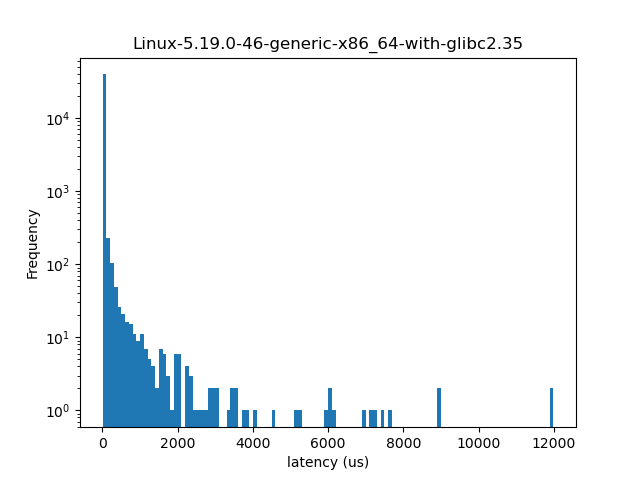
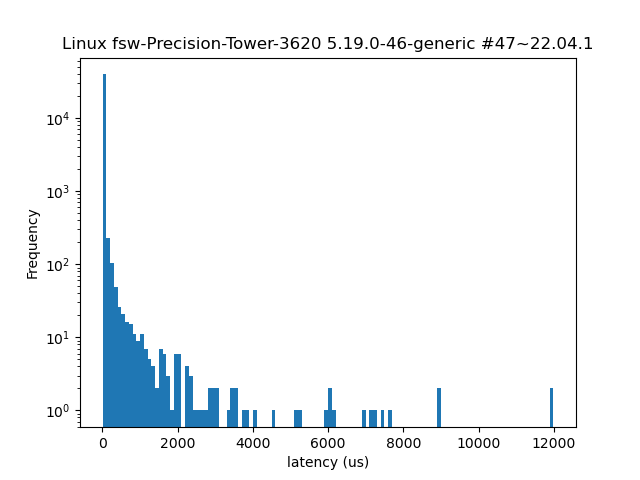
fix python script

Changed region(s): [[0.0938, 0.0625, 0.9062, 0.125]]

diff --git a/rpi-rt/utils/latency/analyze.py b/rpi-rt/utils/latency/analyze.py
@@ -2,7 +2,7 @@ import pandas as pd
 import os
 import re
 import matplotlib.pyplot as plt
-import platform
+import subprocess
 
 record = []
 
@@ -17,6 +17,6 @@ with open(os.path.join(os.path.dirname(__file__), "latency_record.txt")) as read
             pass
 s = pd.Series(record)
 df = pd.DataFrame({"latency": s})
-df["latency"].plot(kind="hist",bins = 120, logy=True , xlabel="latency (us)" , title=f"{platform.platform()}").get_figure().savefig(
+df["latency"].plot(kind="hist",bins = 120, logy=True , xlabel="latency (us)" , title=f"{subprocess.getoutput('uname -a')[:60]}").get_figure().savefig(
     os.path.join(os.path.dirname(__file__), "hist.png")
 )
